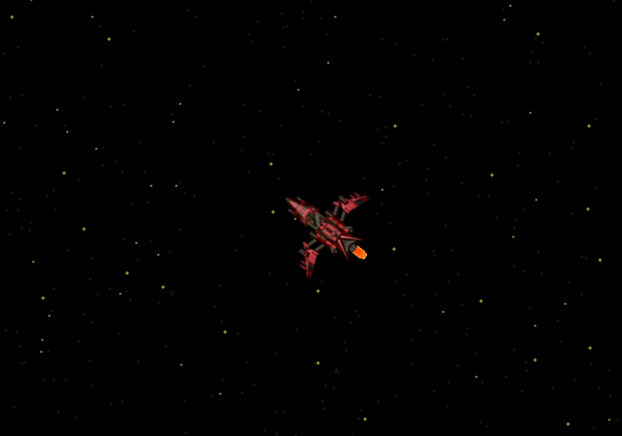
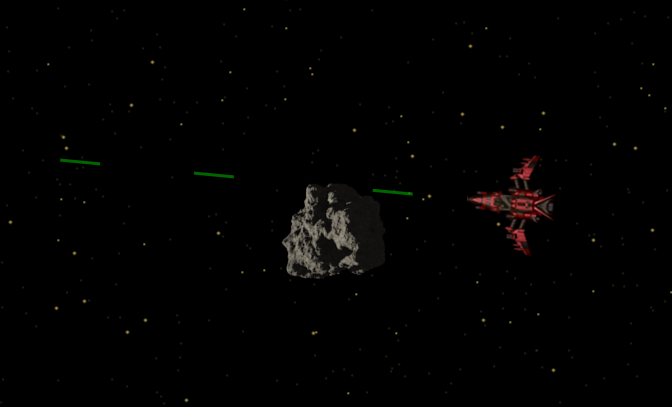
readme and screenshot update

diff --git a/README.md b/README.md
@@ -2,10 +2,10 @@
 
 https://spaceship-parallax.netlify.app
 
-Navigate a spaceship through space. The stars show a parallax effect.
+Navigate a spaceship through space. The stars show a parallax effect. Avoid the asteroids. You can shoot them with lasers.
 
 <img src="./public/img/screenshot.png" alt="Screenshot" width="300"/>
 
-This is a demonstration how to use multiple HTML canvases and animated sprites (see also [this repository](https://github.com/ScriptRaccoon/Sprite-Animation)).
+This is a demonstration how to use multiple HTML canvases and animated sprites with JavaScript (see also [this repository](https://github.com/ScriptRaccoon/Sprite-Animation)).
 
-The image of the idle spaceship comes from https://opengameart.org/content/spaceship-fighter-ipod1. The images of the asteroid come from https://opengameart.org/content/asteroid-l.
+The image of the idle spaceship comes from https://opengameart.org/content/spaceship-fighter-ipod1. The images of the rotating asteroid come from https://opengameart.org/content/asteroid-l.
